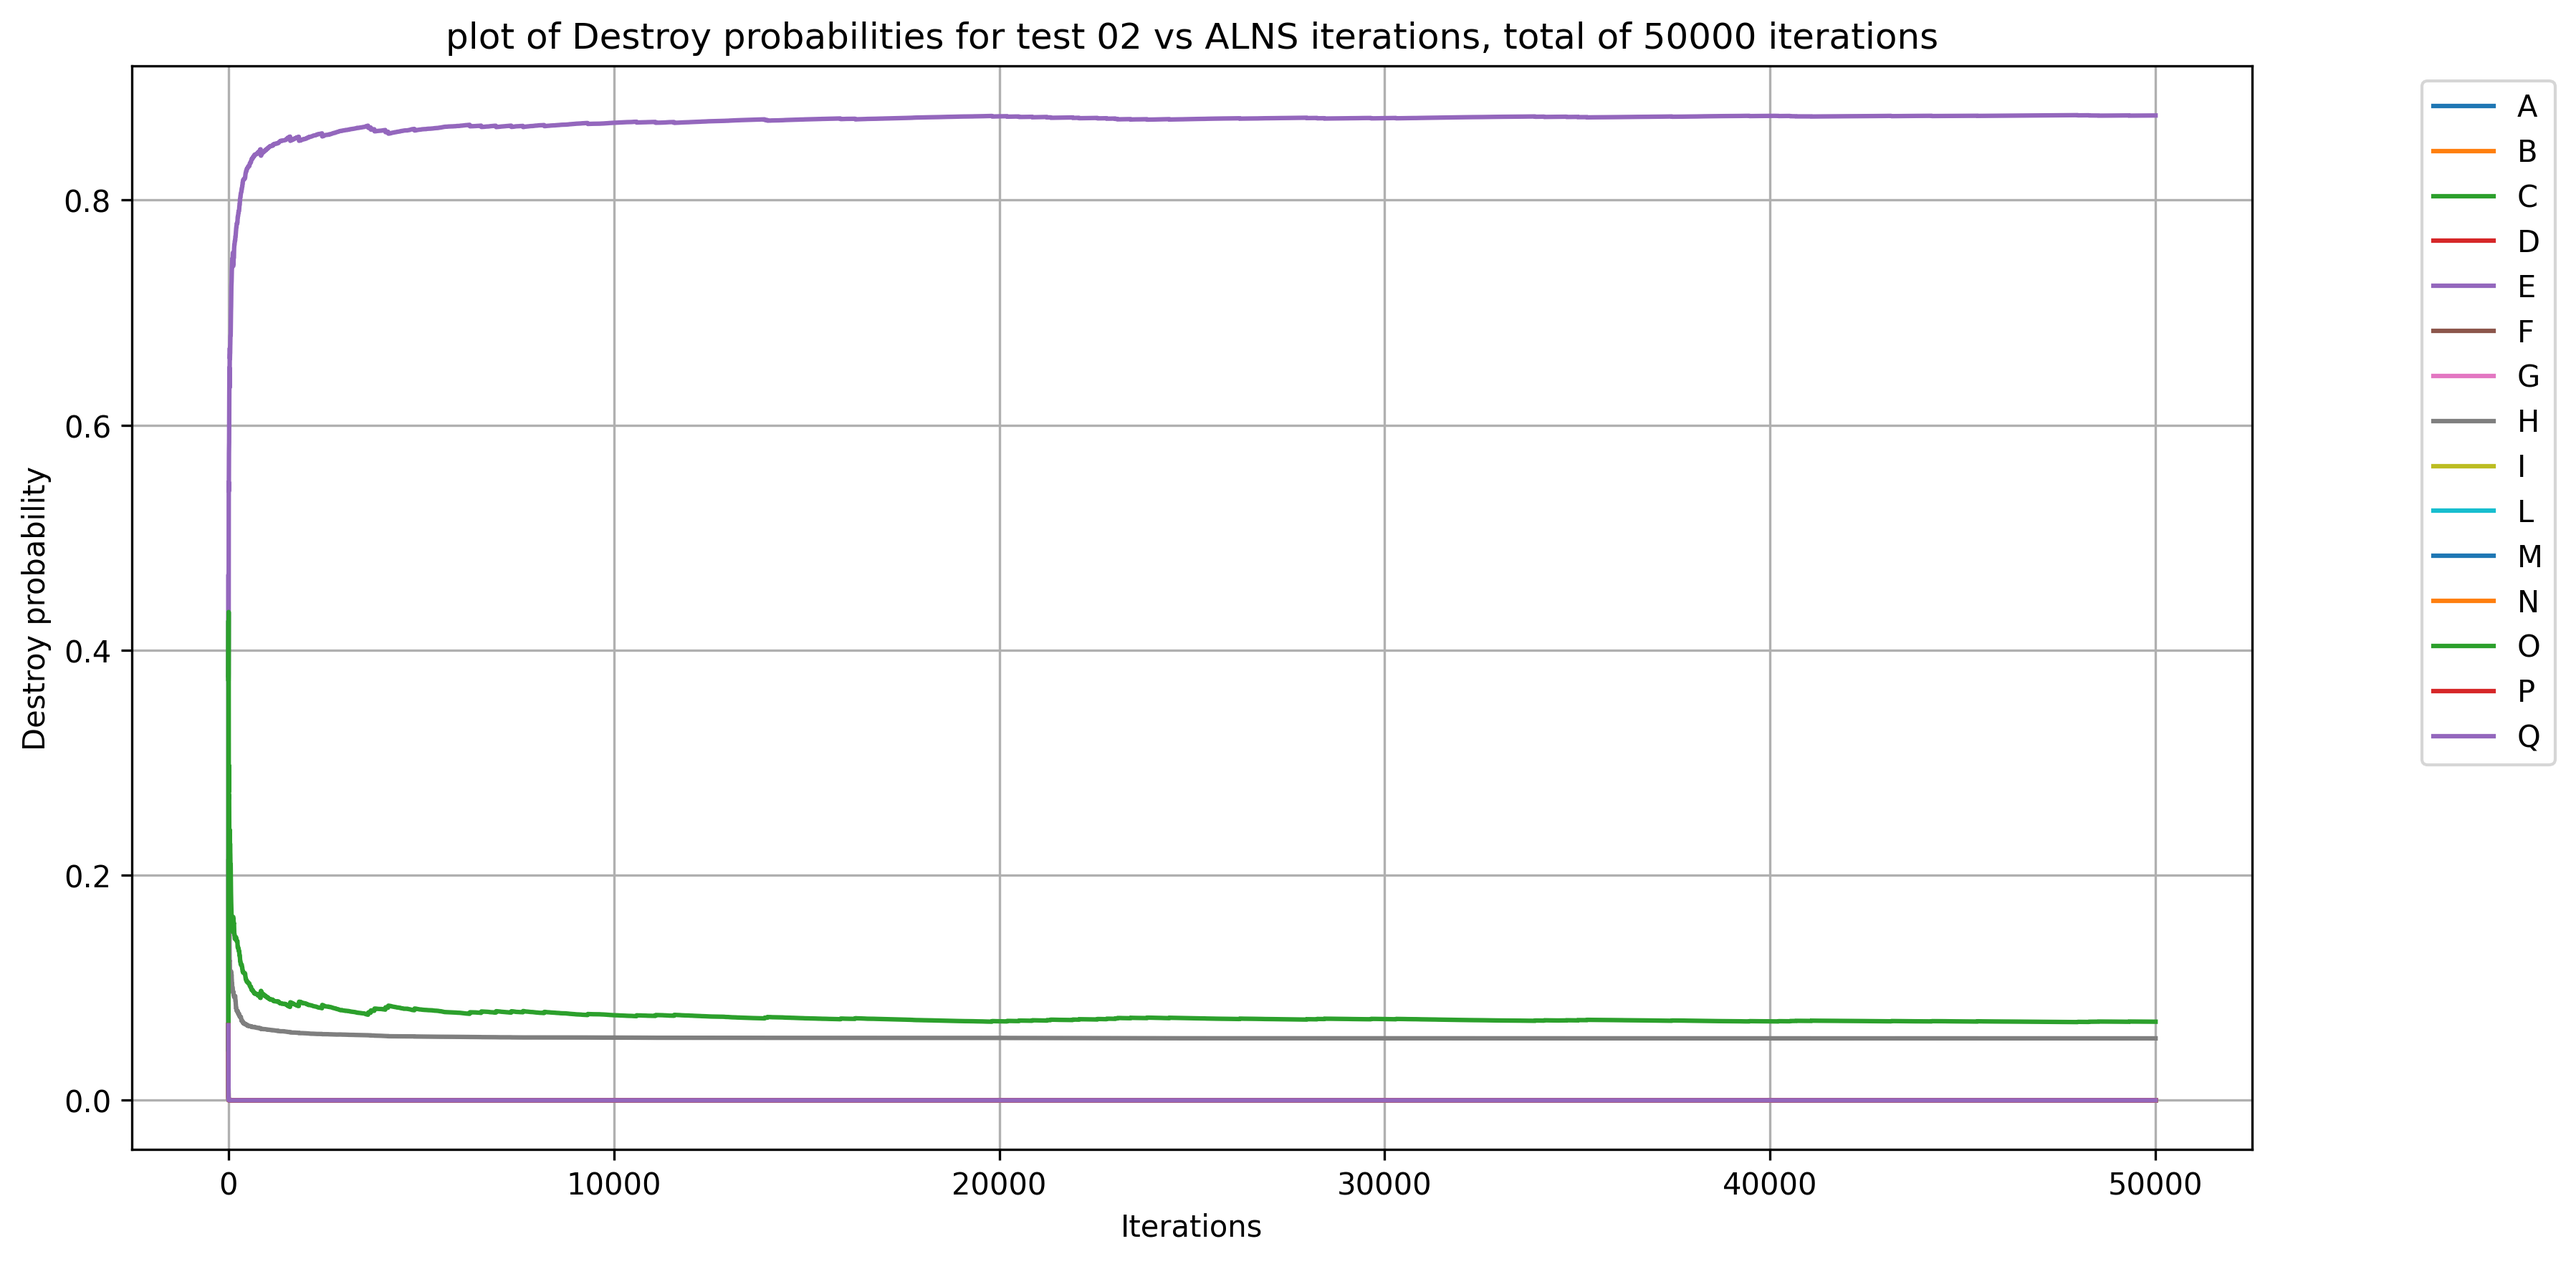
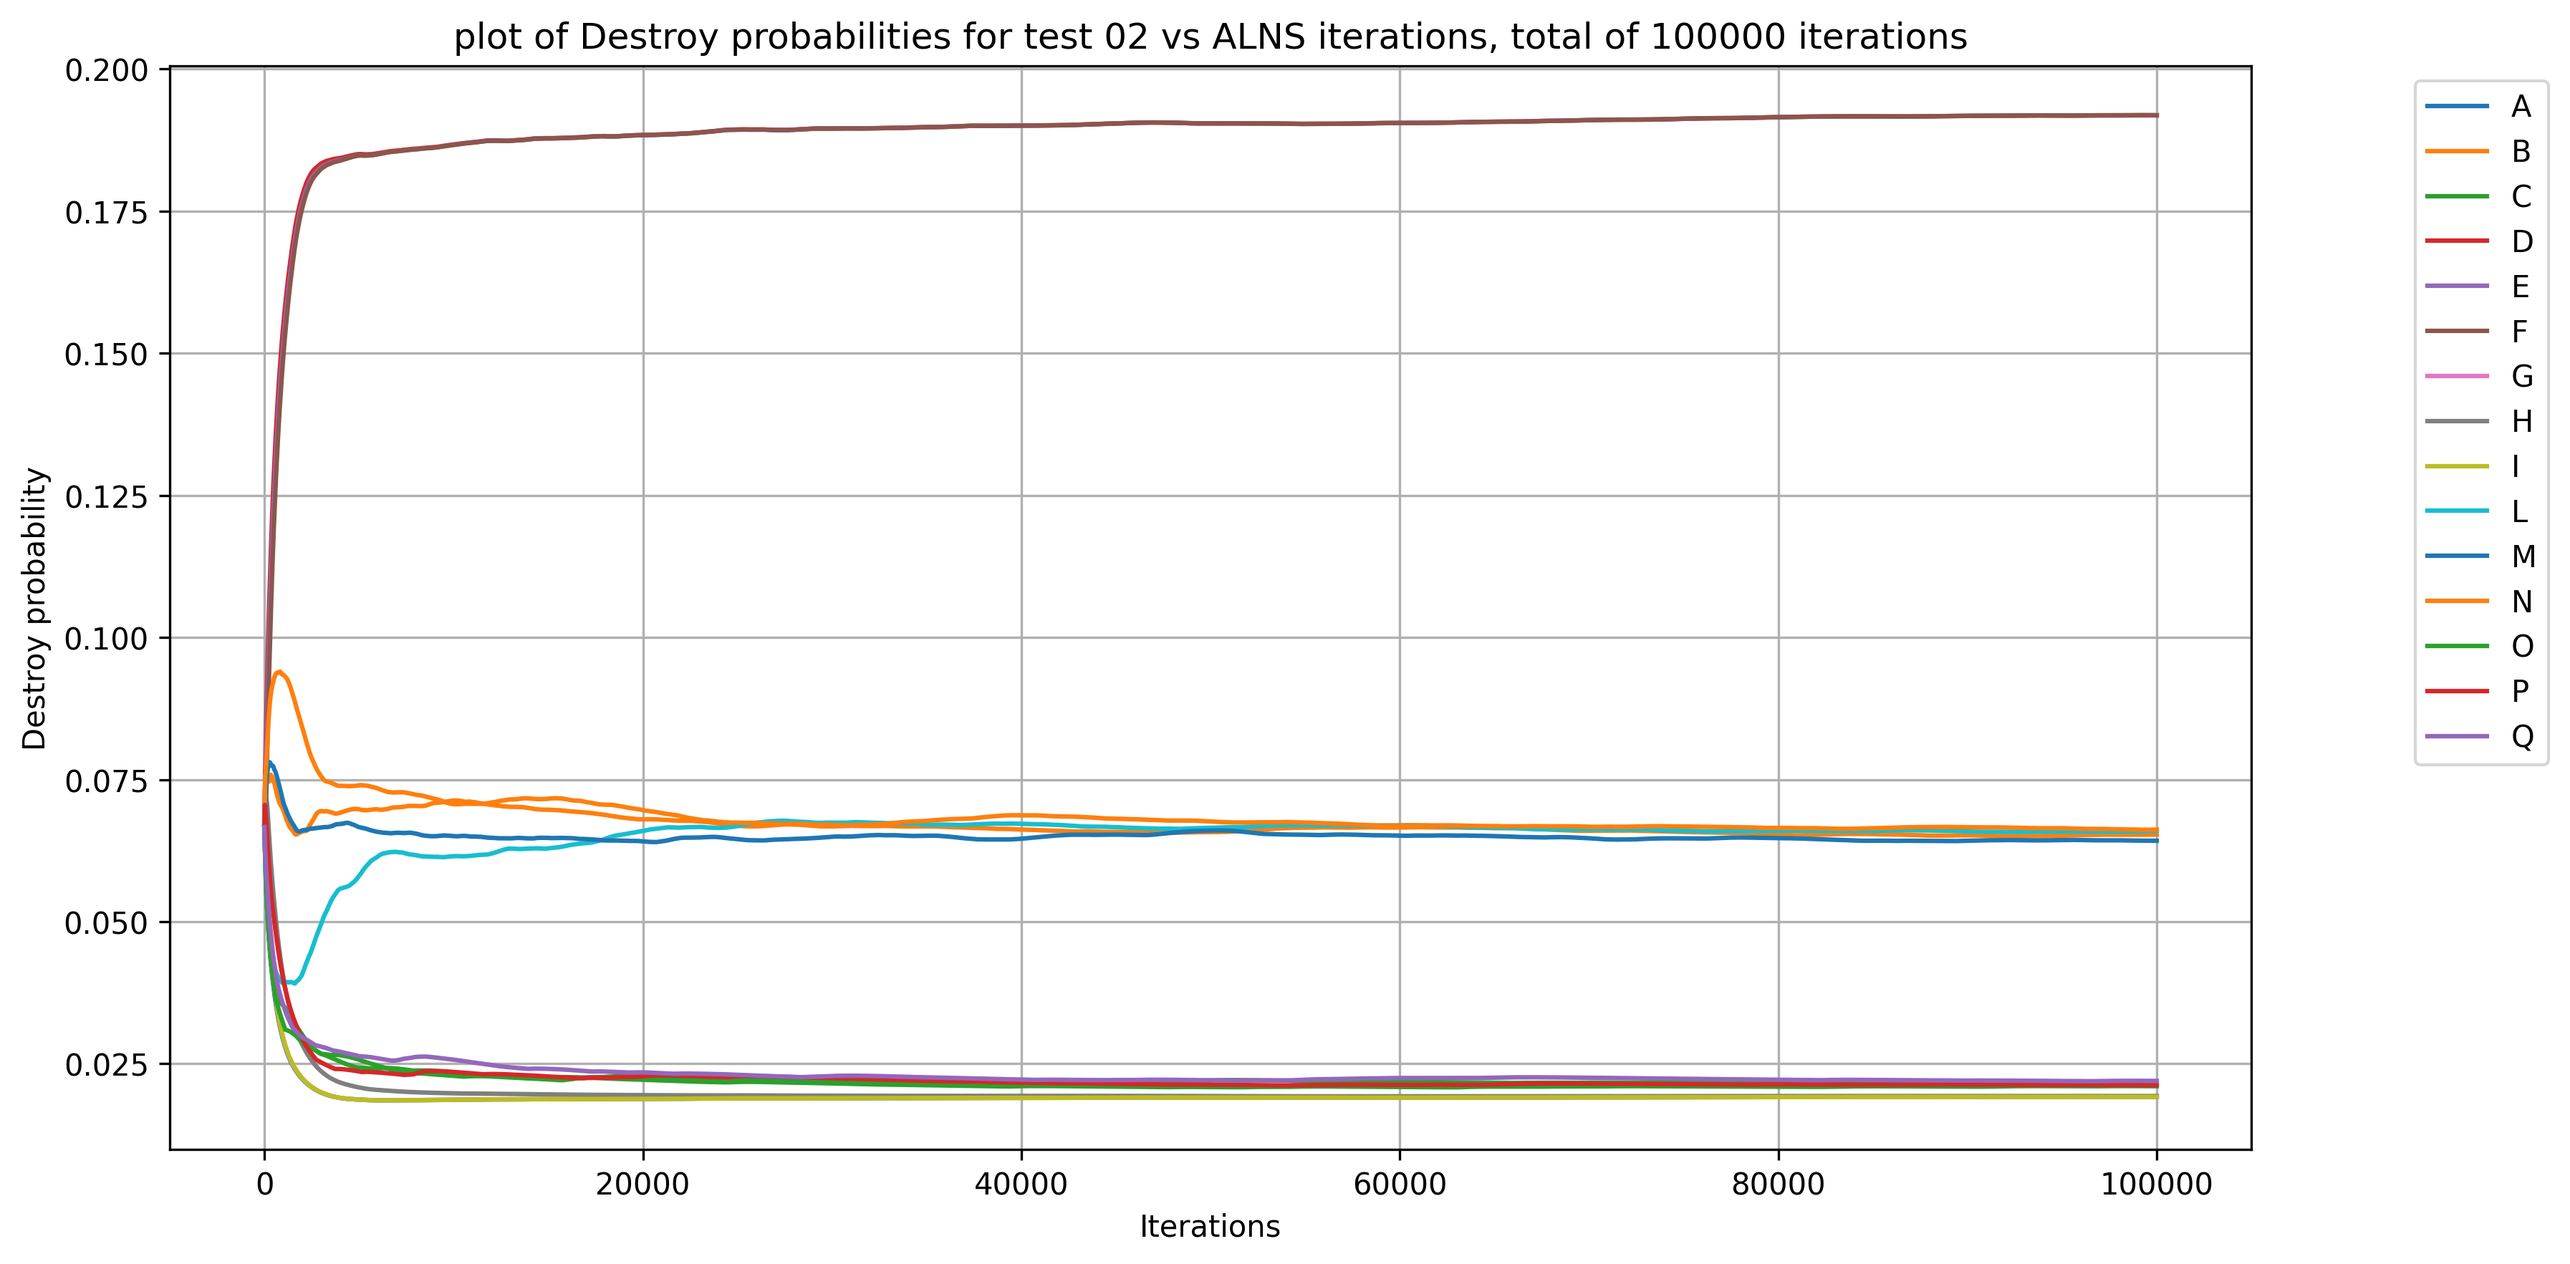
test

diff --git a/main.py b/main.py
@@ -53,7 +53,7 @@ def main():
 
     #  reading
 
-    filename = 'test09.json'
+    filename = 'test02.json'
 
     with open('test_data/'+filename, 'r') as file:
         data = json.load(file)
@@ -154,7 +154,7 @@ def main():
 
     # solving the problem
 
-    number_of_iterations = 35000
+    number_of_iterations = 100000
 
     solver = ALNS(problem, init_solution)
 
